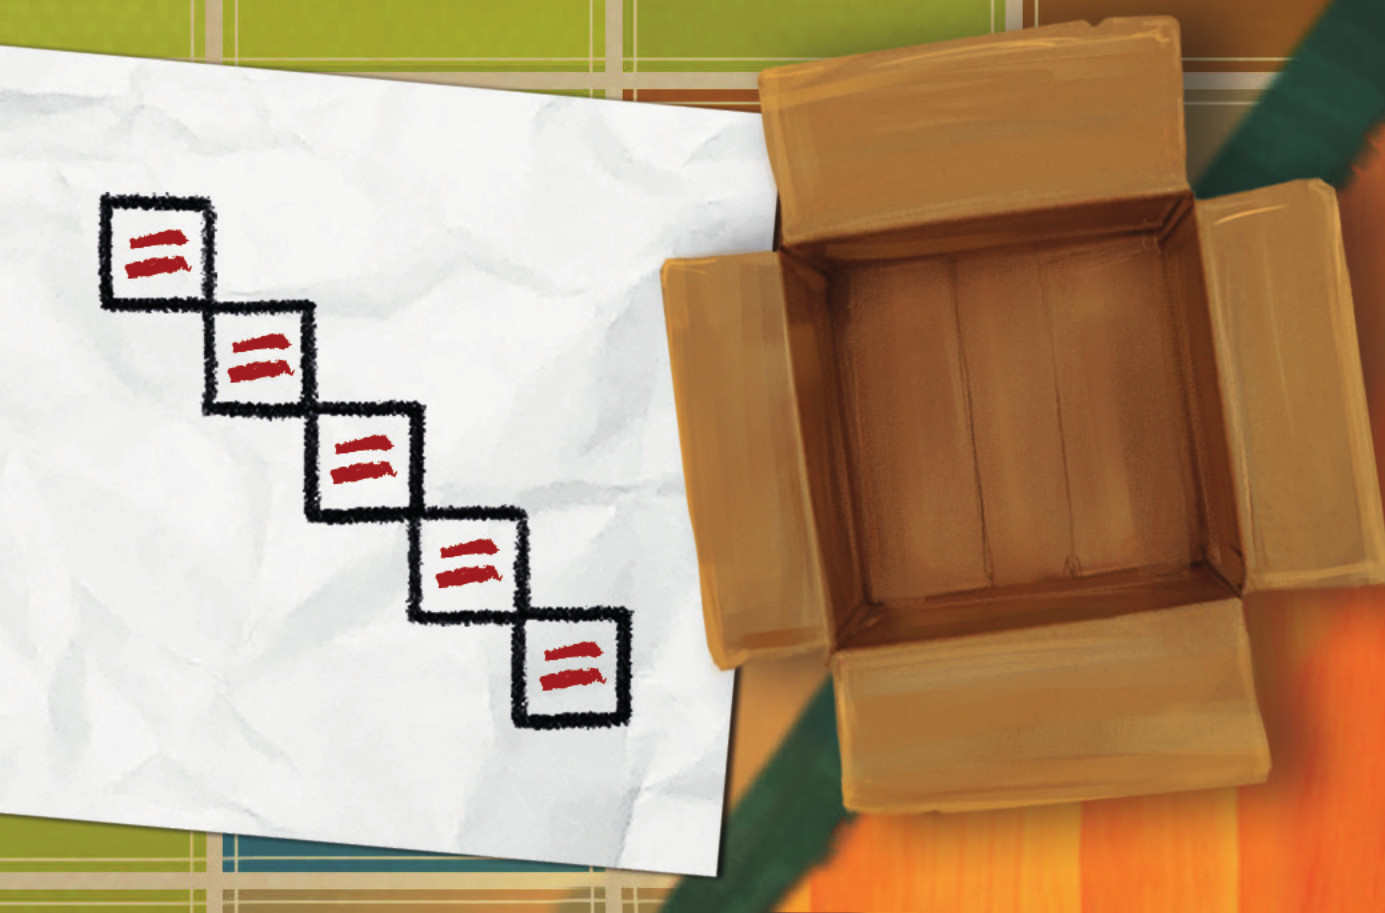
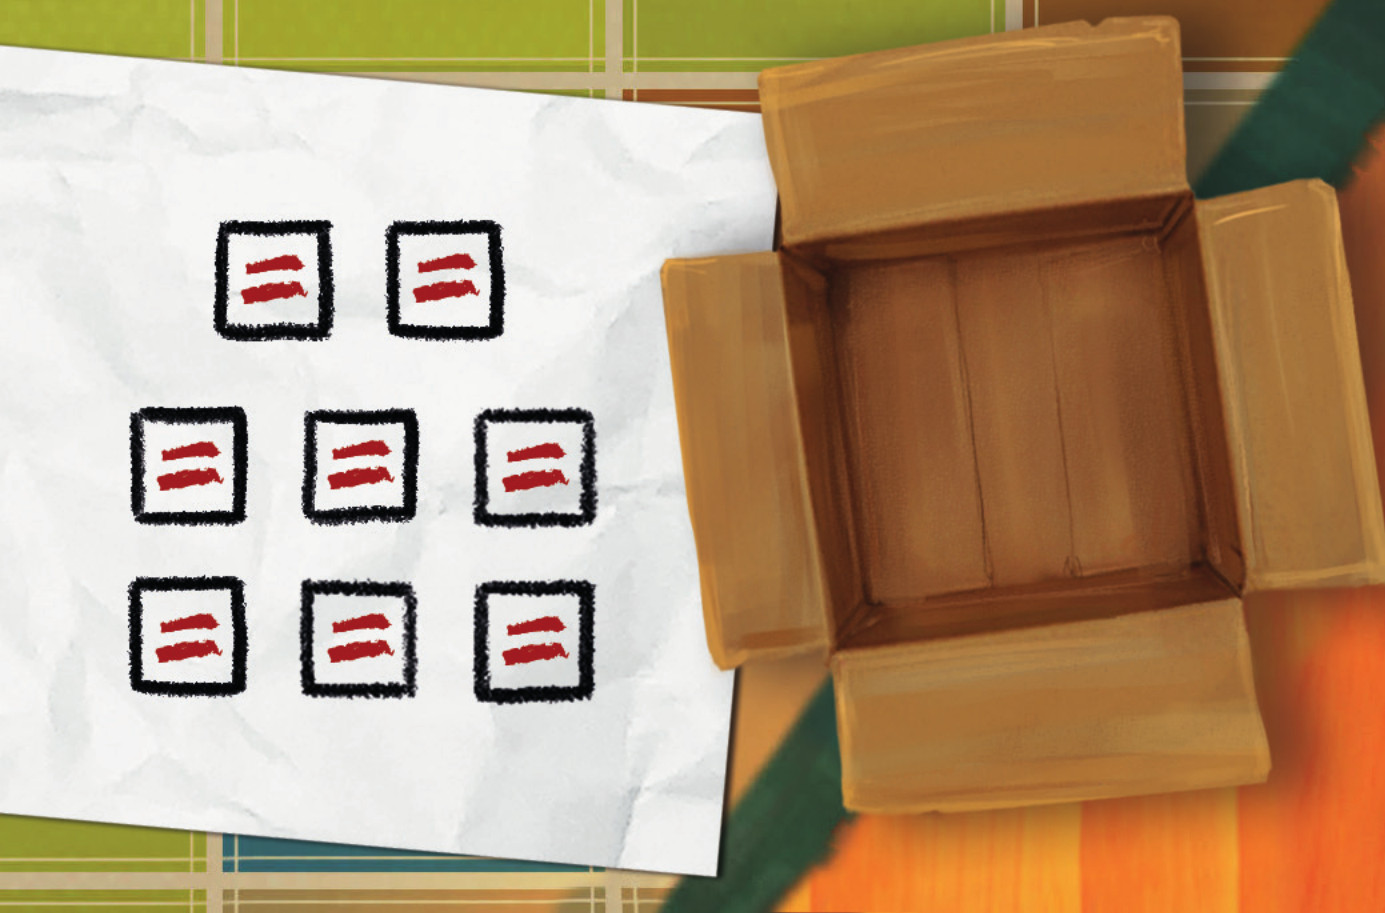
name of commongoalcard.jpg fix

Changed region(s): [[0.0621, 0.2147, 0.4657, 0.7974], [0.2794, 0.2147, 0.3726, 0.3987], [0.0931, 0.6134, 0.1863, 0.7667]]

diff --git a/MyShelfie/src/test/java/it/polimi/ingsw/PersonalGoalCardTest.java b/MyShelfie/src/test/java/it/polimi/ingsw/PersonalGoalCardTest.java
@@ -1017,7 +1017,7 @@ class PersonalGoalCardTest {
         player.getBookshelf().setTile(1,1, TileType.GAME);
         player.getBookshelf().setTile(2,0, TileType.BOOK);
         player.getBookshelf().setTile(3,3, TileType.CAT);
-        player.getBookshelf().setTile(4,2, TileType.FRAME);
+        player.getBookshelf().setTile(4,1, TileType.FRAME);
         player.getBookshelf().setTile(5,3, TileType.PLANT);
 
         assertEquals(5, player.getPersonalGoalCard().check(player.getPersonalGoalCard().getID()));
@@ -1032,7 +1032,7 @@ class PersonalGoalCardTest {
         player.getBookshelf().setTile(1,1, TileType.BOOK);
         player.getBookshelf().setTile(2,0, TileType.BOOK);
         player.getBookshelf().setTile(3,3, TileType.CAT);
-        player.getBookshelf().setTile(4,2, TileType.FRAME);
+        player.getBookshelf().setTile(4,1, TileType.FRAME);
         player.getBookshelf().setTile(5,3, TileType.PLANT);
 
         assertEquals(4, player.getPersonalGoalCard().check(player.getPersonalGoalCard().getID()));
@@ -1047,7 +1047,7 @@ class PersonalGoalCardTest {
         player.getBookshelf().setTile(1,1, TileType.BOOK);
         player.getBookshelf().setTile(2,0, TileType.CAT);
         player.getBookshelf().setTile(3,3, TileType.CAT);
-        player.getBookshelf().setTile(4,2, TileType.FRAME);
+        player.getBookshelf().setTile(4,1, TileType.FRAME);
         player.getBookshelf().setTile(5,3, TileType.PLANT);
 
         assertEquals(3, player.getPersonalGoalCard().check(player.getPersonalGoalCard().getID()));
@@ -1062,7 +1062,7 @@ class PersonalGoalCardTest {
         player.getBookshelf().setTile(1,1, TileType.BOOK);
         player.getBookshelf().setTile(2,0, TileType.CAT);
         player.getBookshelf().setTile(3,3, TileType.FRAME);
-        player.getBookshelf().setTile(4,2, TileType.FRAME);
+        player.getBookshelf().setTile(4,1, TileType.FRAME);
         player.getBookshelf().setTile(5,3, TileType.PLANT);
 
         assertEquals(2, player.getPersonalGoalCard().check(player.getPersonalGoalCard().getID()));
@@ -1077,7 +1077,7 @@ class PersonalGoalCardTest {
         player.getBookshelf().setTile(1,1, TileType.BOOK);
         player.getBookshelf().setTile(2,0, TileType.CAT);
         player.getBookshelf().setTile(3,3, TileType.FRAME);
-        player.getBookshelf().setTile(4,2, TileType.PLANT);
+        player.getBookshelf().setTile(4,1, TileType.PLANT);
         player.getBookshelf().setTile(5,3, TileType.PLANT);
 
         assertEquals(1, player.getPersonalGoalCard().check(player.getPersonalGoalCard().getID()));
@@ -1092,7 +1092,7 @@ class PersonalGoalCardTest {
         player.getBookshelf().setTile(1,1, TileType.BOOK);
         player.getBookshelf().setTile(2,0, TileType.CAT);
         player.getBookshelf().setTile(3,3, TileType.FRAME);
-        player.getBookshelf().setTile(4,2, TileType.PLANT);
+        player.getBookshelf().setTile(4,1, TileType.PLANT);
         player.getBookshelf().setTile(5,3, TileType.TROPHIE);
 
         assertEquals(0, player.getPersonalGoalCard().check(player.getPersonalGoalCard().getID()));

diff --git a/MyShelfie/src/main/java/it/polimi/ingsw/View/Cli.java b/MyShelfie/src/main/java/it/polimi/ingsw/View/Cli.java
@@ -705,9 +705,9 @@ public class Cli extends ViewObservable implements View, DisconnectionHandler,Ru
                     System.out.println("+-------+");
                     System.out.println("|       |");
                     System.out.println("+-------+");
-                    System.out.println("|       |           +-------+");
-                    System.out.println("+-------+   MAX 3   |   !=  |");
-                    System.out.println("|       |           +-------+");
+                    System.out.println("|       |               +-------+");
+                    System.out.println("+-------+  X3   MAX 3   |   !=  |");
+                    System.out.println("|       |               +-------+");
                     System.out.println("+-------+");
                     System.out.println("|       |");
                     System.out.println("+-------+");

diff --git a/MyShelfie/src/main/java/it/polimi/ingsw/Model/PersonalGoalCard.java b/MyShelfie/src/main/java/it/polimi/ingsw/Model/PersonalGoalCard.java
@@ -214,7 +214,7 @@ public class PersonalGoalCard implements Serializable {
                     matches++;
                 if(player.getBookshelf().getTile(3,3).getTileType().equals(TileType.CAT))
                     matches++;
-                if(player.getBookshelf().getTile(4,2).getTileType().equals(TileType.FRAME))
+                if(player.getBookshelf().getTile(4,1).getTileType().equals(TileType.FRAME))
                     matches++;
                 if(player.getBookshelf().getTile(5,3).getTileType().equals(TileType.PLANT))
                     matches++;
